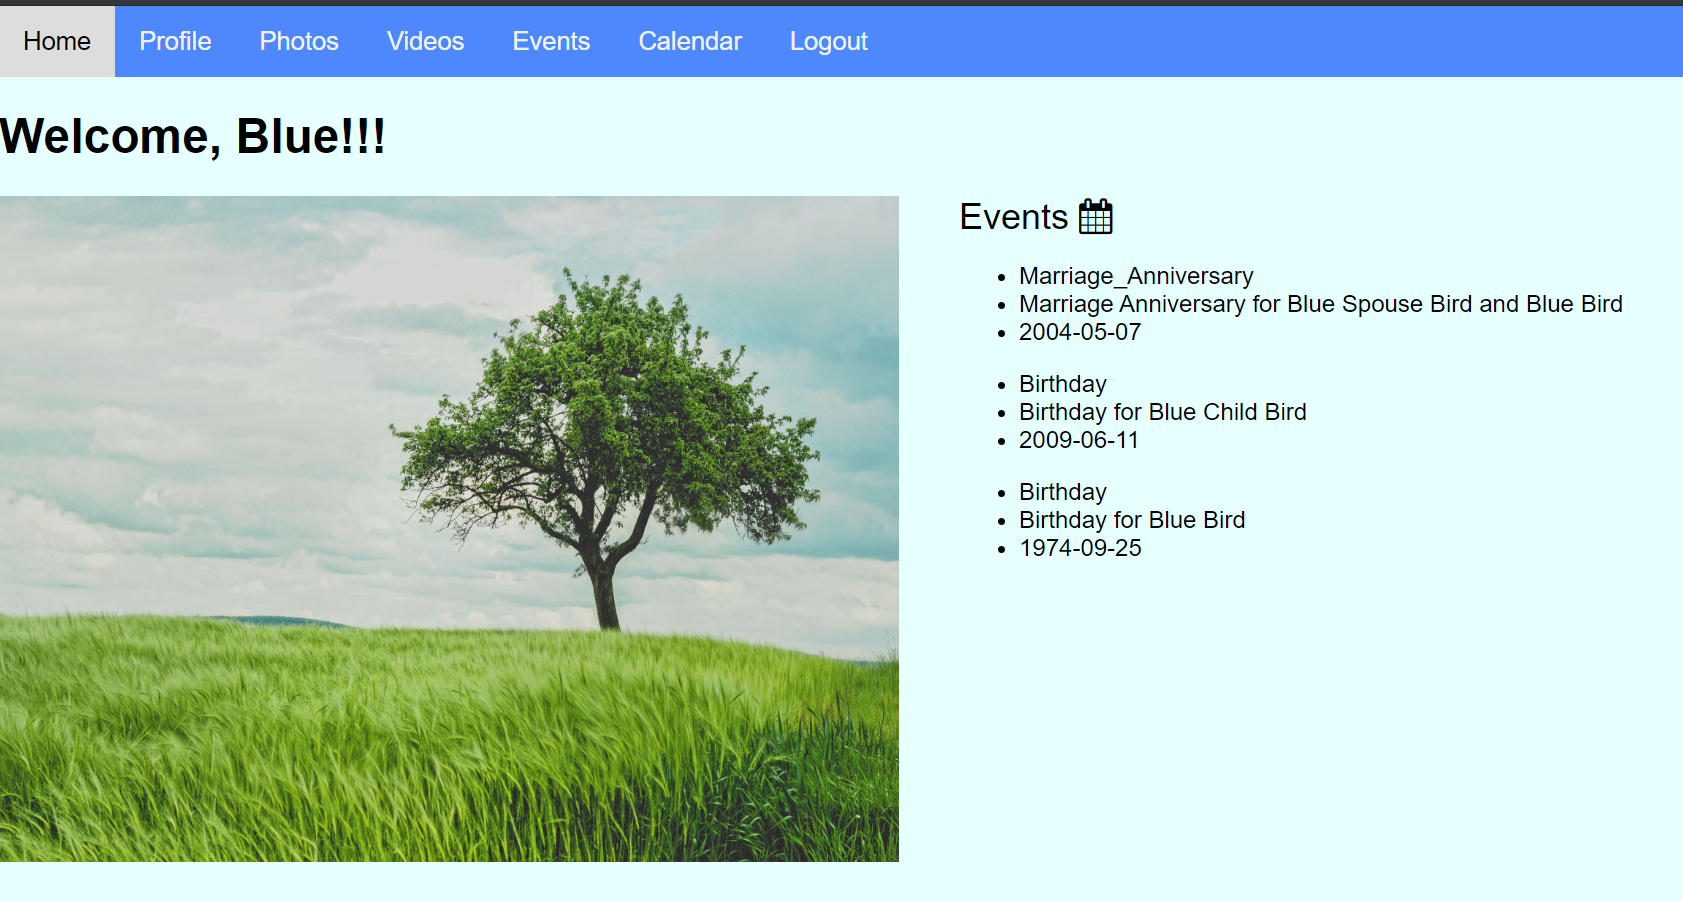
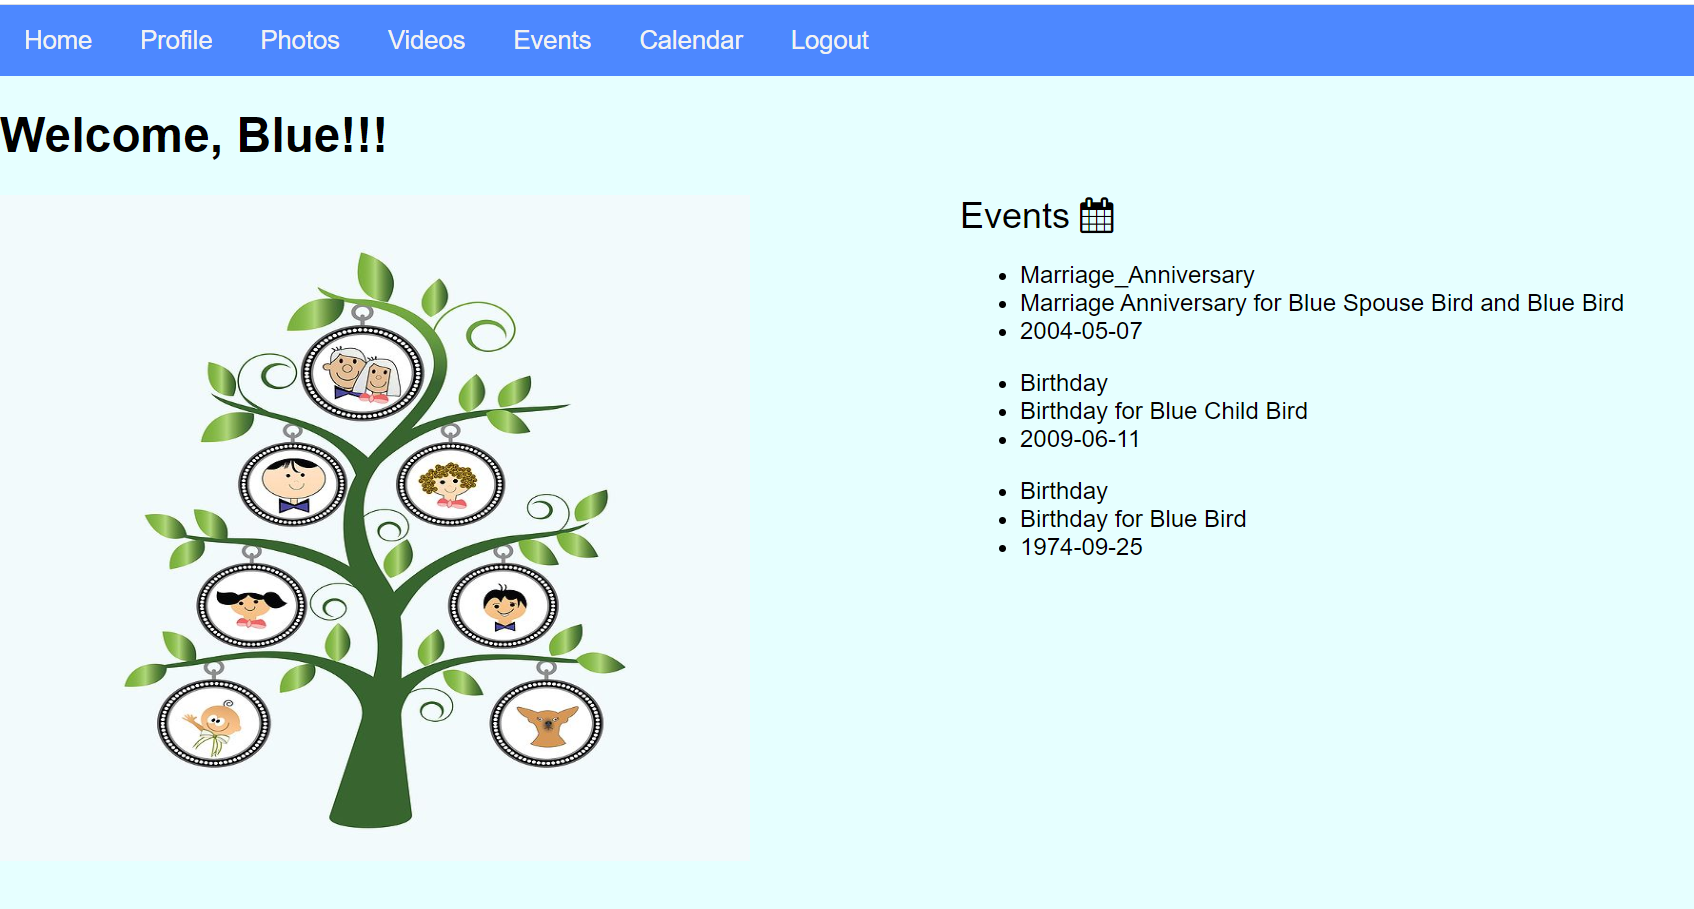
Demo_Project

diff --git a/templates/home_page.html b/templates/home_page.html
@@ -33,7 +33,7 @@
   {% endif %}
   </div>
 <div id="left" >
-    <img src="/static/greenery.jpg" width="600" height="444">
+    <img src="/static/familytree.jpg" width="500" height="444">
   </div>
 
 </div>
